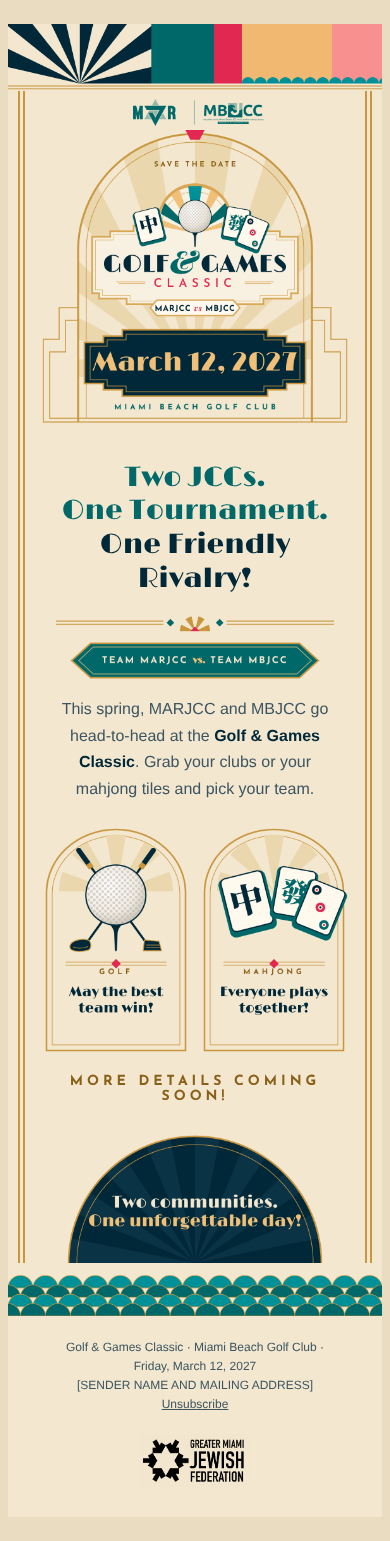
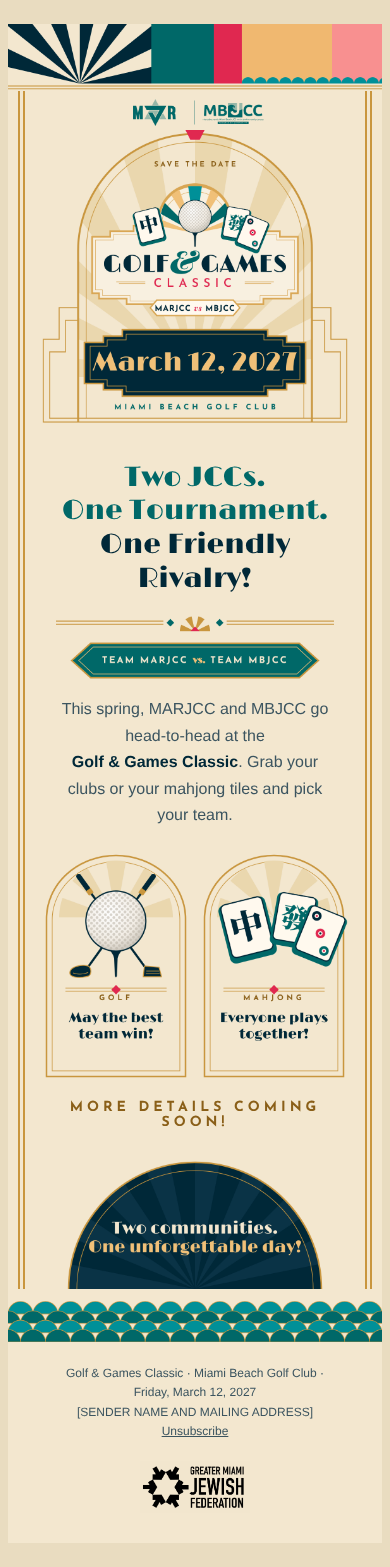
Keep the event name on one line; rule recorded
Claude-Session: https://claude.ai/code/session_014Yf17Fk2qdVoQEw95c3A5W

Changed region(s): [[0.0, 0.0311, 0.9846, 0.9656]]

diff --git a/explorations/email-art-deco-beige-v2/index.html b/explorations/email-art-deco-beige-v2/index.html
@@ -15,7 +15,7 @@
 <tr><td align="center" style="padding:28px 24px 6px"><div class="h1" style="font-family:Limelight,Georgia,serif;font-size:34px;line-height:1.2;color:#006868">Two JCCs.<br>One Tournament.</div><div class="h1" style="font-family:Limelight,Georgia,serif;font-size:34px;line-height:1.2;color:#002838">One Friendly Rivalry!</div></td></tr>
 <tr><td><img src="images/fan.png" width="538" height="55" alt="" style="display:block;width:100%;height:auto;border:0"></td></tr>
 <tr><td><img src="images/plaque.png" width="538" height="75" alt="Team MARJCC vs. Team MBJCC" style="display:block;width:100%;height:auto;border:0"></td></tr>
-<tr><td align="center" style="padding:12px 34px 18px"><div style="font-family:Arial,Helvetica,sans-serif;font-size:16px;line-height:1.65;color:#3C5560">This spring, MARJCC and MBJCC go head-to-head at the <b style="color:#002838">Golf &amp; Games Classic</b>. Grab your clubs or your mahjong tiles and pick your team.</div></td></tr>
+<tr><td align="center" style="padding:12px 34px 18px"><div style="font-family:Arial,Helvetica,sans-serif;font-size:16px;line-height:1.65;color:#3C5560">This spring, MARJCC and MBJCC go head-to-head at the <b style="color:#002838;white-space:nowrap">Golf&nbsp;&amp;&nbsp;Games&nbsp;Classic</b>. Grab your clubs or your mahjong tiles and pick your team.</div></td></tr>
 <tr><td><img src="images/cards.png" width="538" height="380" alt="Golf: May the best team win! Mahjong: Everyone plays together!" style="display:block;width:100%;height:auto;border:0"></td></tr>
 <tr><td align="center" style="padding:14px 24px 26px"><div style="font-family:'Josefin Sans',Arial,sans-serif;font-weight:700;font-size:14px;letter-spacing:4px;color:#8A5F18">MORE DETAILS COMING SOON!</div></td></tr>
 <tr><td><img src="images/closing.png" width="538" height="210" alt="Two communities. One unforgettable day!" style="display:block;width:100%;height:auto;border:0"></td></tr>

diff --git a/CLAUDE.md b/CLAUDE.md
@@ -9,6 +9,7 @@
 ## Brand rules (details in brand/README.md)
 - MARJCC and MBJCC logos: always at the TOP, one color (white on dark, teal #006868 on light), no white box. MARJCC first.
 - GMJF logo: always alone at the very BOTTOM, like a footer.
+- Never break the event name across lines: keep "Golf & Games Classic" together (non-breaking spaces / white-space:nowrap).
 - Write "MBJCC" (short form) instead of "Miami Beach JCC". Venue stays "Miami Beach Golf Club".
 - Mahjong only: never show playing cards or card suits.
 - All event materials in English. ONE look everywhere: the Instagram posts (instagram/src/build.js + base.css) are the master look for landing, emails, save the date, videos and print: sunset sky melting into a glowing sea, light rays, bokeh, layered waves with glowing gold lines, golf ball as a sun, floating tiles, big gold Limelight type. NEVER palm trees. No hard bands, boxes, geometric ray fans, scallop strips or color blocks.
